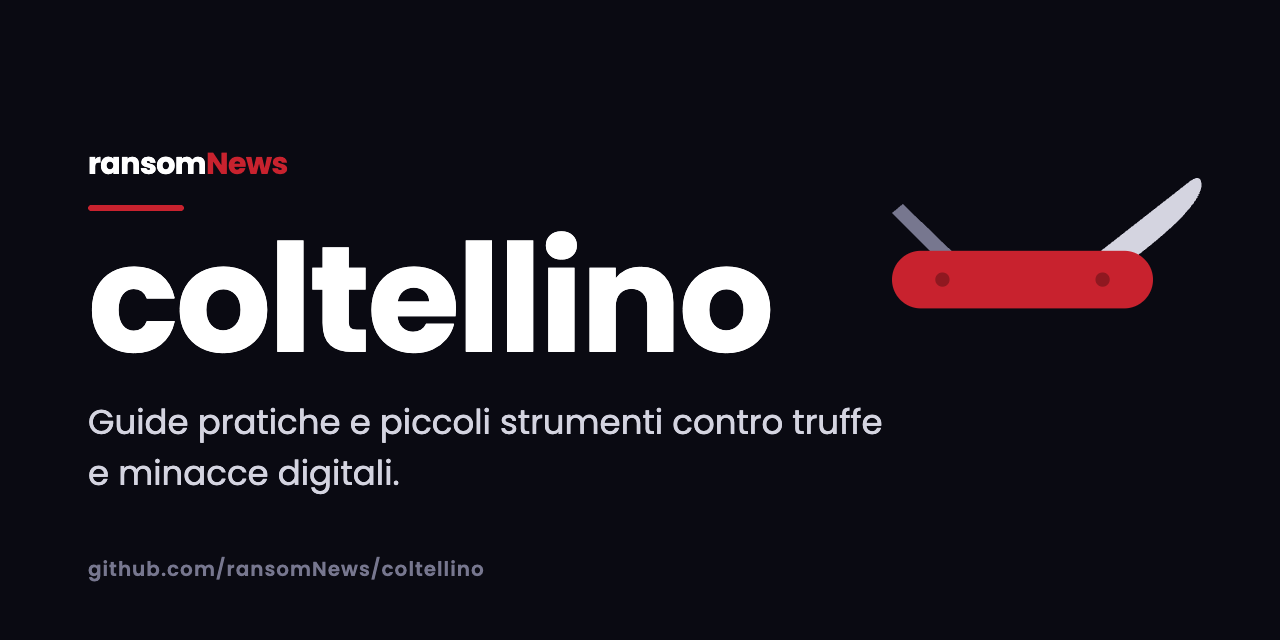
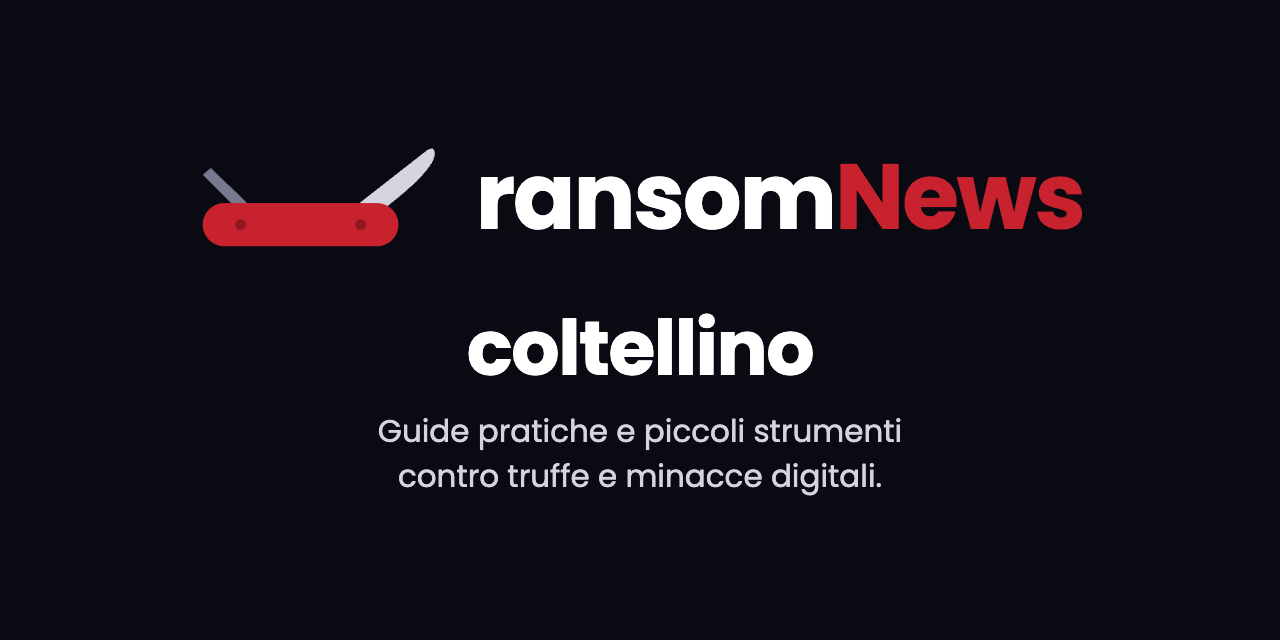
Anteprima social sul modello di GitHub
Logo, titolo e descrizione centrati e tutti dentro il bordo di 80 pixel
del modello di GitHub per le anteprime dei repo, così niente viene
tagliato. Stessi colori e carattere del banner. Aggiornato anche il
sorgente in .github/assets/sorgente/social.html.

Changed region(s): [[0.0625, 0.2188, 0.9375, 0.5938], [0.0625, 0.625, 0.7188, 0.7812], [0.0625, 0.875, 0.375, 0.9062]]

diff --git a/.github/assets/sorgente/social.html b/.github/assets/sorgente/social.html
@@ -1,12 +1,22 @@
 <!doctype html><html lang="it"><head><meta charset="utf-8">
-<link href="https://fonts.googleapis.com/css2?family=Poppins:wght@400;600;700&display=block" rel="stylesheet">
-<link href="base.css" rel="stylesheet">
-<style>html,body{height:640px}.wrap{height:640px}h1{font-size:150px;margin-top:4px}p{font-size:34px;margin-top:22px;max-width:820px}.label{position:absolute;left:88px;bottom:56px}
-svg{right:64px;top:150px;width:360px}</style></head><body><div class="wrap">
-<div class="mark">ransom<span>News</span></div>
-<div class="bar"></div>
+<link href="https://fonts.googleapis.com/css2?family=Poppins:wght@400;700&display=block" rel="stylesheet">
+<style>
+*{margin:0;padding:0;box-sizing:border-box}
+html,body{width:1280px;height:640px;overflow:hidden;background:#0a0a12;font-family:Poppins,sans-serif;color:#fff}
+.safe{position:absolute;left:80px;top:80px;width:1120px;height:480px;display:flex;flex-direction:column;align-items:center;justify-content:center;text-align:center}
+.logo{display:flex;align-items:center;gap:34px}
+.knife{height:112px;width:auto}
+.mark{font-size:92px;font-weight:700;letter-spacing:-2px;line-height:1}
+.mark span{color:#c8222e}
+h1{font-size:76px;font-weight:700;letter-spacing:-1.5px;line-height:1;margin-top:58px}
+p{font-size:31px;color:#d4d4e0;line-height:1.45;margin-top:22px;max-width:900px;text-wrap:balance}
+.guide{position:absolute;inset:0;pointer-events:none}
+.guide i{position:absolute;background:#c8222e}
+</style></head><body>
+<div class="safe">
+<div class="logo"><svg class="knife" viewBox="30 20 364 166" xmlns="http://www.w3.org/2000/svg" aria-hidden="true"><path d="M262 120 L372 34 Q384 26 384 40 Q380 70 282 140 Z" fill="#d4d4e0"/><path d="M92 122 L40 70 L52 60 L106 112 Z" fill="#77778f"/><rect x="40" y="112" width="290" height="64" rx="32" fill="#c8222e"/><circle cx="96" cy="144" r="8" fill="#8f1820"/><circle cx="274" cy="144" r="8" fill="#8f1820"/></svg><div class="mark">ransom<span>News</span></div></div>
 <h1>coltellino</h1>
 <p>Guide pratiche e piccoli strumenti contro truffe e minacce digitali.</p>
-<div class="label">github.com/ransomNews/coltellino</div>
-<svg viewBox="0 0 400 220" xmlns="http://www.w3.org/2000/svg" aria-hidden="true"><path d="M262 120 L372 34 Q384 26 384 40 Q380 70 282 140 Z" fill="var(--blade)"/><path d="M92 122 L40 70 L52 60 L106 112 Z" fill="var(--muted)"/><rect x="40" y="112" width="290" height="64" rx="32" fill="var(--red)"/><circle cx="96" cy="144" r="8" fill="#8f1820"/><circle cx="274" cy="144" r="8" fill="#8f1820"/></svg>
-</div></body></html>
+</div>
+
+</body></html>

diff --git a/.github/assets/sorgente/README.md b/.github/assets/sorgente/README.md
@@ -11,3 +11,5 @@
 ```
 
 Colori presi dal PDF della guida truffe WhatsApp, carattere Poppins come sul sito.
+
+`social.html` segue il modello di GitHub per le anteprime dei repo: tutto il contenuto sta dentro un bordo di 80 pixel, così niente viene tagliato. `social.html` non usa `base.css`.
